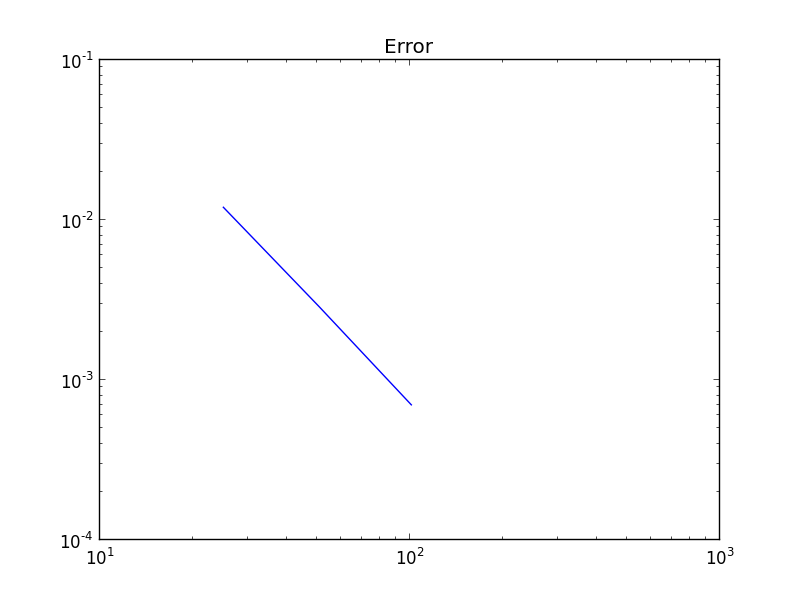
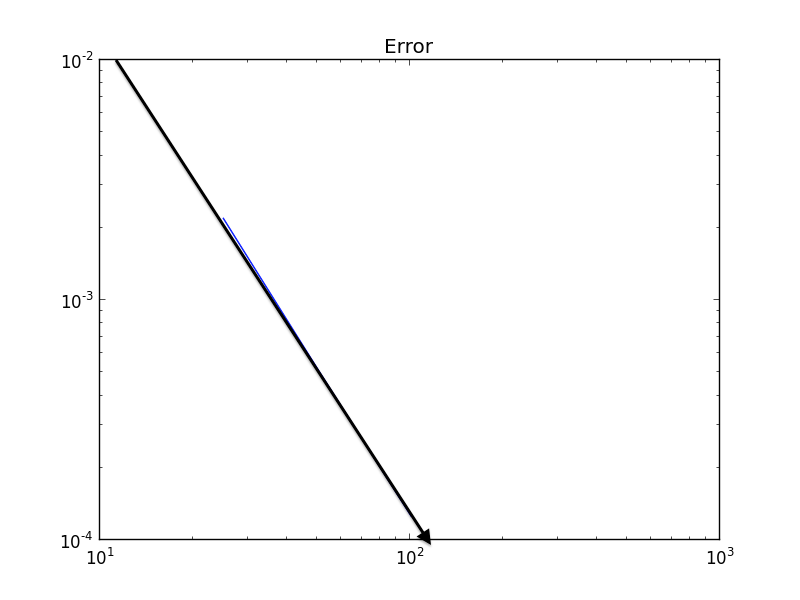
Correction error when copying matrix

diff --git a/2DHeatEquationConv.py b/2DHeatEquationConv.py
@@ -16,6 +16,7 @@ import errno
 ## IC u[x,y,0]=cos(x)+cos(y) 
 ## Convergence test\
 
+#IMPORTANT TO COPY A MATRIX USE u_old = [row[:] for row in u_arr] this will unlink them...
 
 ##Physical parameter
 Pe = 1.0
@@ -74,6 +75,15 @@ def vecToMatrix(u,nx,ny):
 		for j in range(0,ny):
 			Umat[i][j]=u[i*ny+j]
     	return Umat
+#Periodic BC
+def period(k,n):
+	if k==-1:
+		return n-2
+	else:
+		if k==n:
+			return 1
+		else:
+			return k 
 ##################################################################################################################
 ############################				End			      ############################
 ##################################################################################################################
@@ -93,7 +103,7 @@ for k in range(0,3):
 	dy=L/float(Ny-1)
 
 	## time parameters 
-	dt =0.01*dx*dx
+	dt =0.1*dx*dx
 	#to make sure tend is reached and stability ok
 	#dt = tend/float(int(tend/dt)+1)
 
@@ -130,11 +140,12 @@ for k in range(0,3):
 		#print repr(t)
 		#update u_vec
 		#u_vec = np.dot(A,u_vec)
-		u_old = u_arr
+		u_old = [row[:] for row in u_arr]
 		for i in range(0,Nx):
 			for j in range(0,Ny):
-				u_arr[i][j]=u_old[i][j]*(1.-2.*(lx + ly)) + (u_old[(i-1)%Nx][j]+u_old[(i+1)%Nx][j])*lx+(u_old[i][(j-1)%Ny]+u_old[i][(j+1)%Ny])*ly
-					    
+				u_arr[i][j]=u_old[i][j]*(1.-2.*(lx + ly)) + (u_old[period(i-1,Nx)][j]+u_old[period(i+1,Nx)][j])*lx+(u_old[i][period(j-1,Ny)]+u_old[i][period(j+1,Ny)])*ly
+
+        print repr(u_arr[Nx-1][Ny-1])			    
 	#u_arr=vecToMatrix(u_vec,Nx,Ny)
 	##Calculate the error
 	
@@ -143,8 +154,8 @@ for k in range(0,3):
 		for j in range(0,Ny):
 			f[i][j] =u_arr[i][j]- u_exact(i*dx,j*dy,t,Pe)
 			f[i][j]=f[i][j]**2
-
-        err=errorL2(f,dx,dy,Nx,Ny)
+	
+        err=sqrt(errorL2(f,dx,dy,Nx,Ny))
 	error.append(err)
 	print 'Calculate the error  for ' + repr(Nx) + ' : ' + repr(err)
 

diff --git a/2DHeatEquation.py b/2DHeatEquation.py
@@ -133,7 +133,7 @@ while t<=tend :
 	u_old=u_arr
 	for i in range(0,Nx):
 			for j in range(0,Ny):
-				u_arr[i][j]=u_old[i][j]*(1.-2.*(lx+ly))+(u_old[(i-1)%Nx][j]+u_old[(i+1)%Nx][j])*lx+(u_old[i][(j-1)%Ny]+u_old[i][(j+1)%Ny])*ly
+				u_arr[i][j]=u_old[i][j]*(1.-2.*(lx+ly))+(u_old[(i-1)%(Nx-1)][j]+u_old[(i+1)%(Nx-1)][j])*lx+(u_old[i][(j-1)%(Ny-1)]+u_old[i][(j+1)%(Ny-1)])*ly
 	step=step+1
 	if step%stepSize == 0:
         	step = 0
